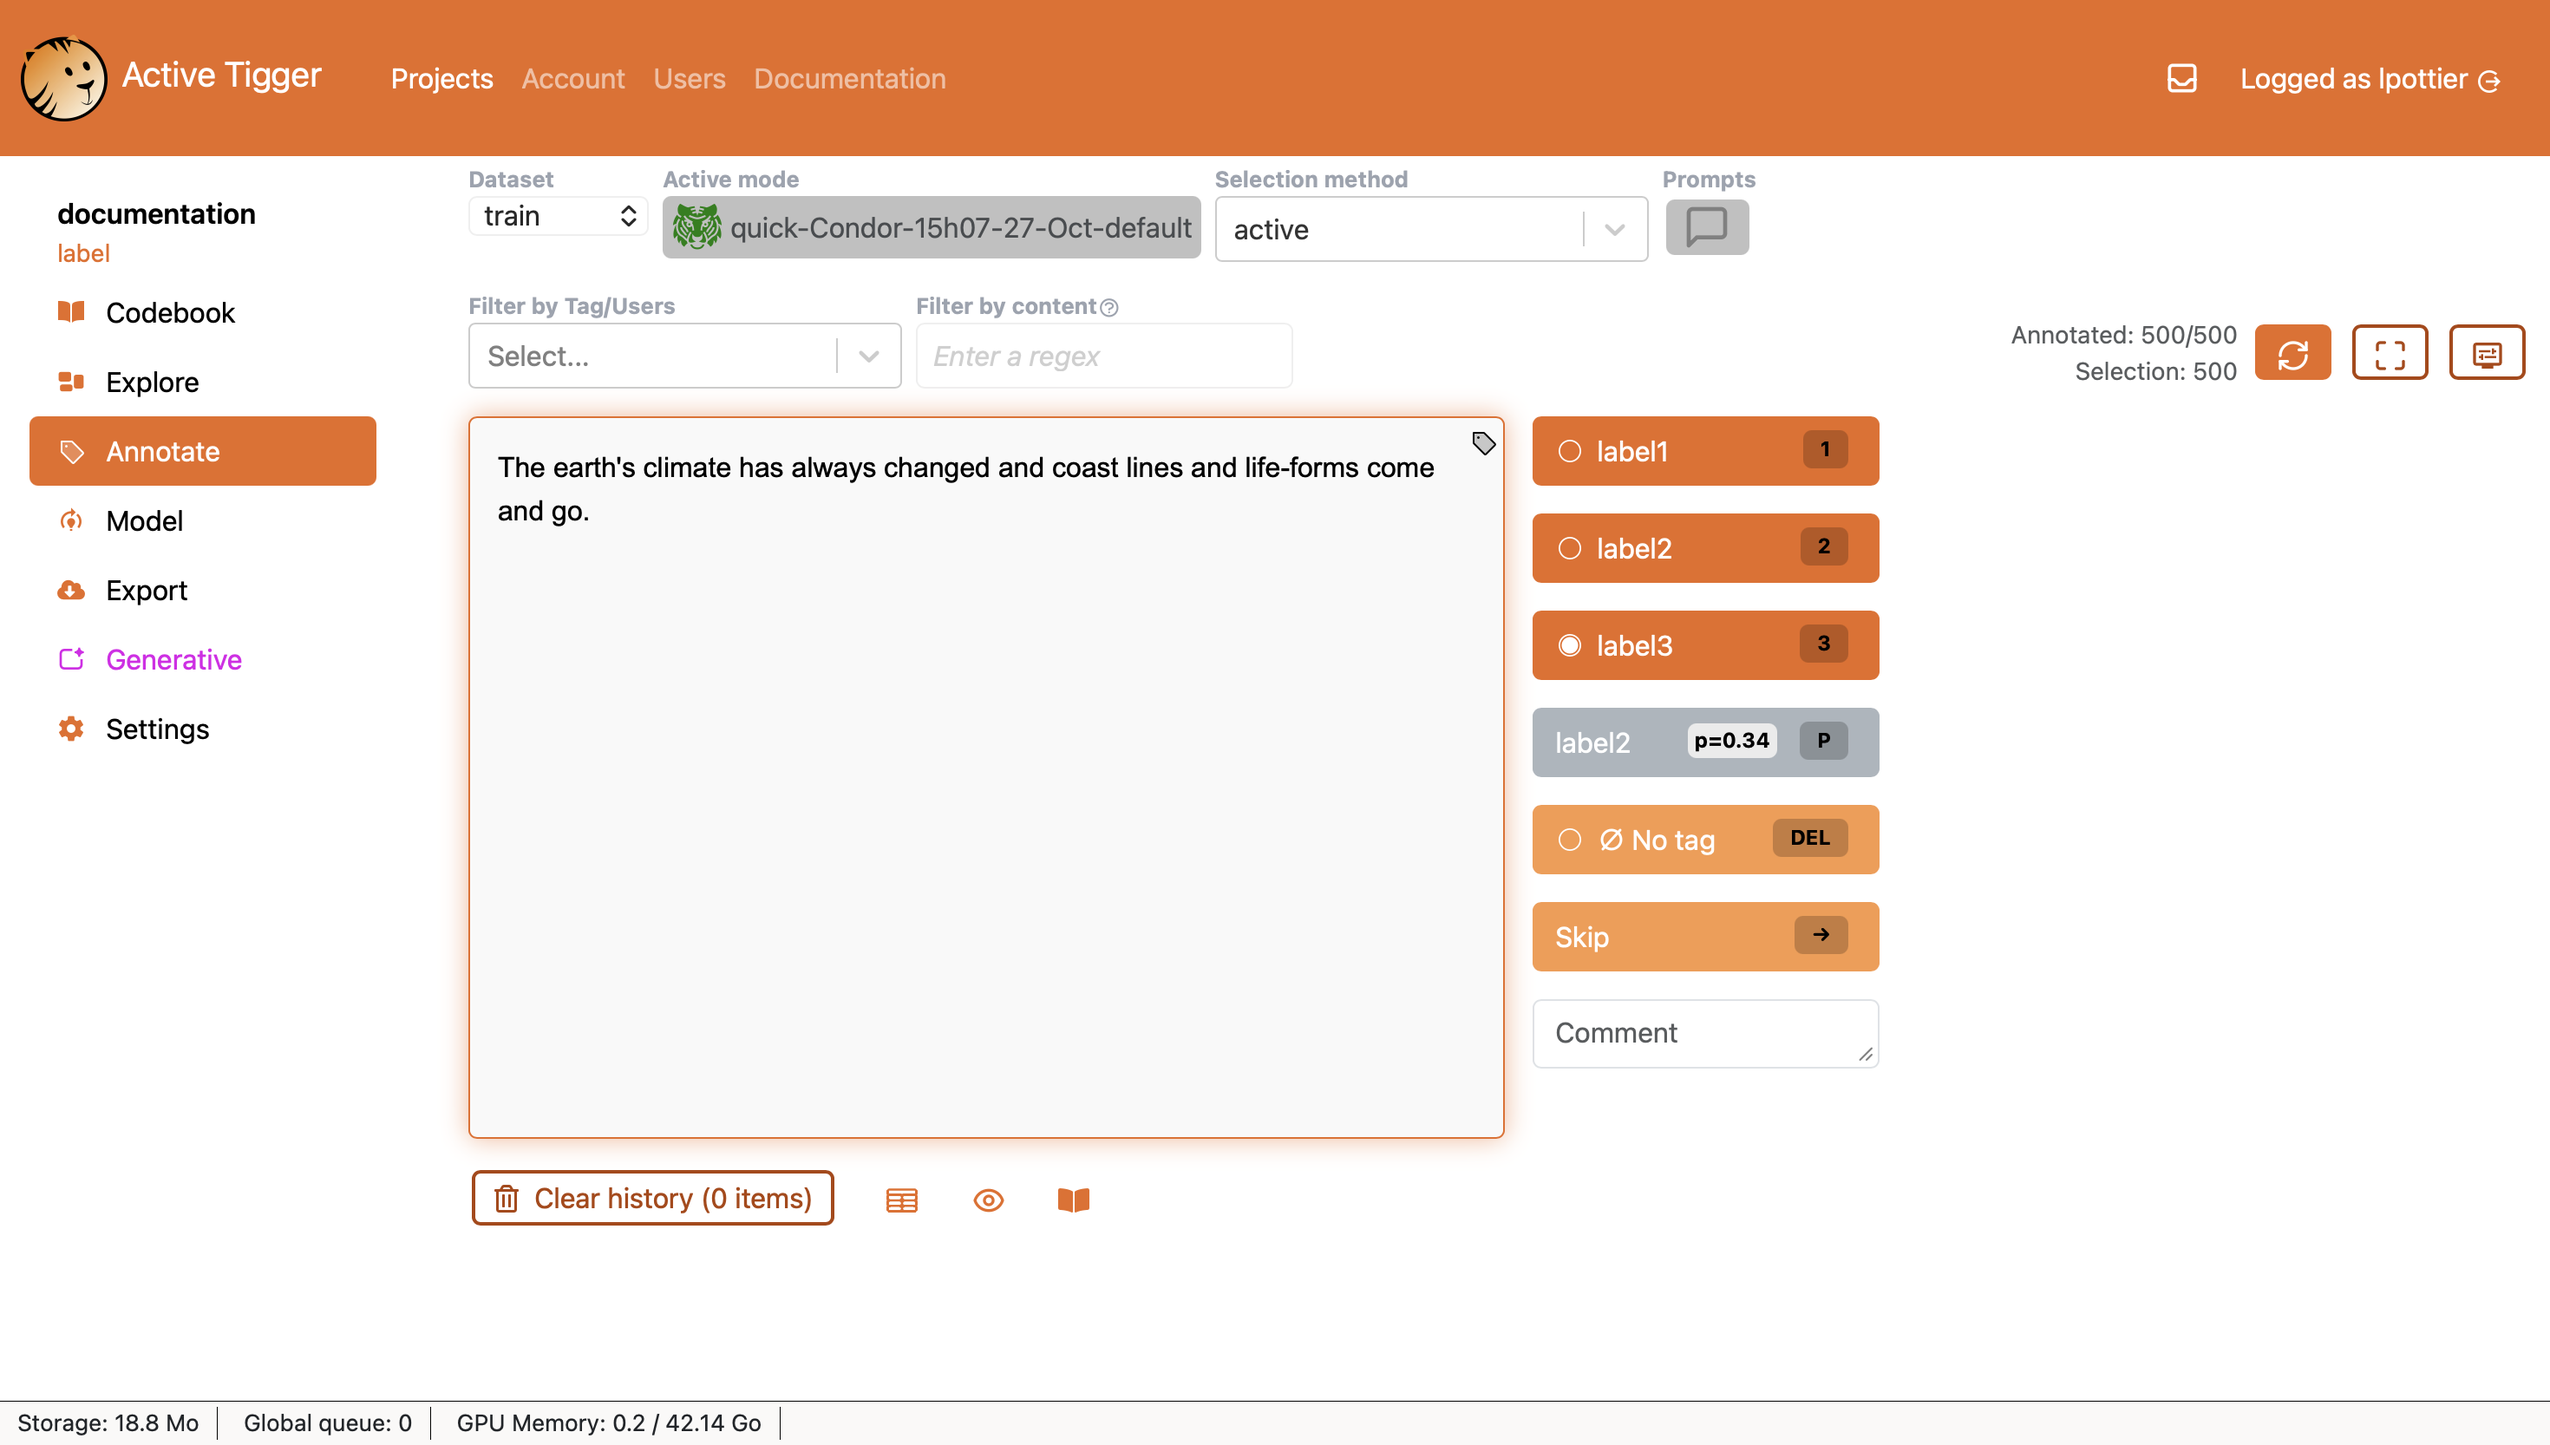
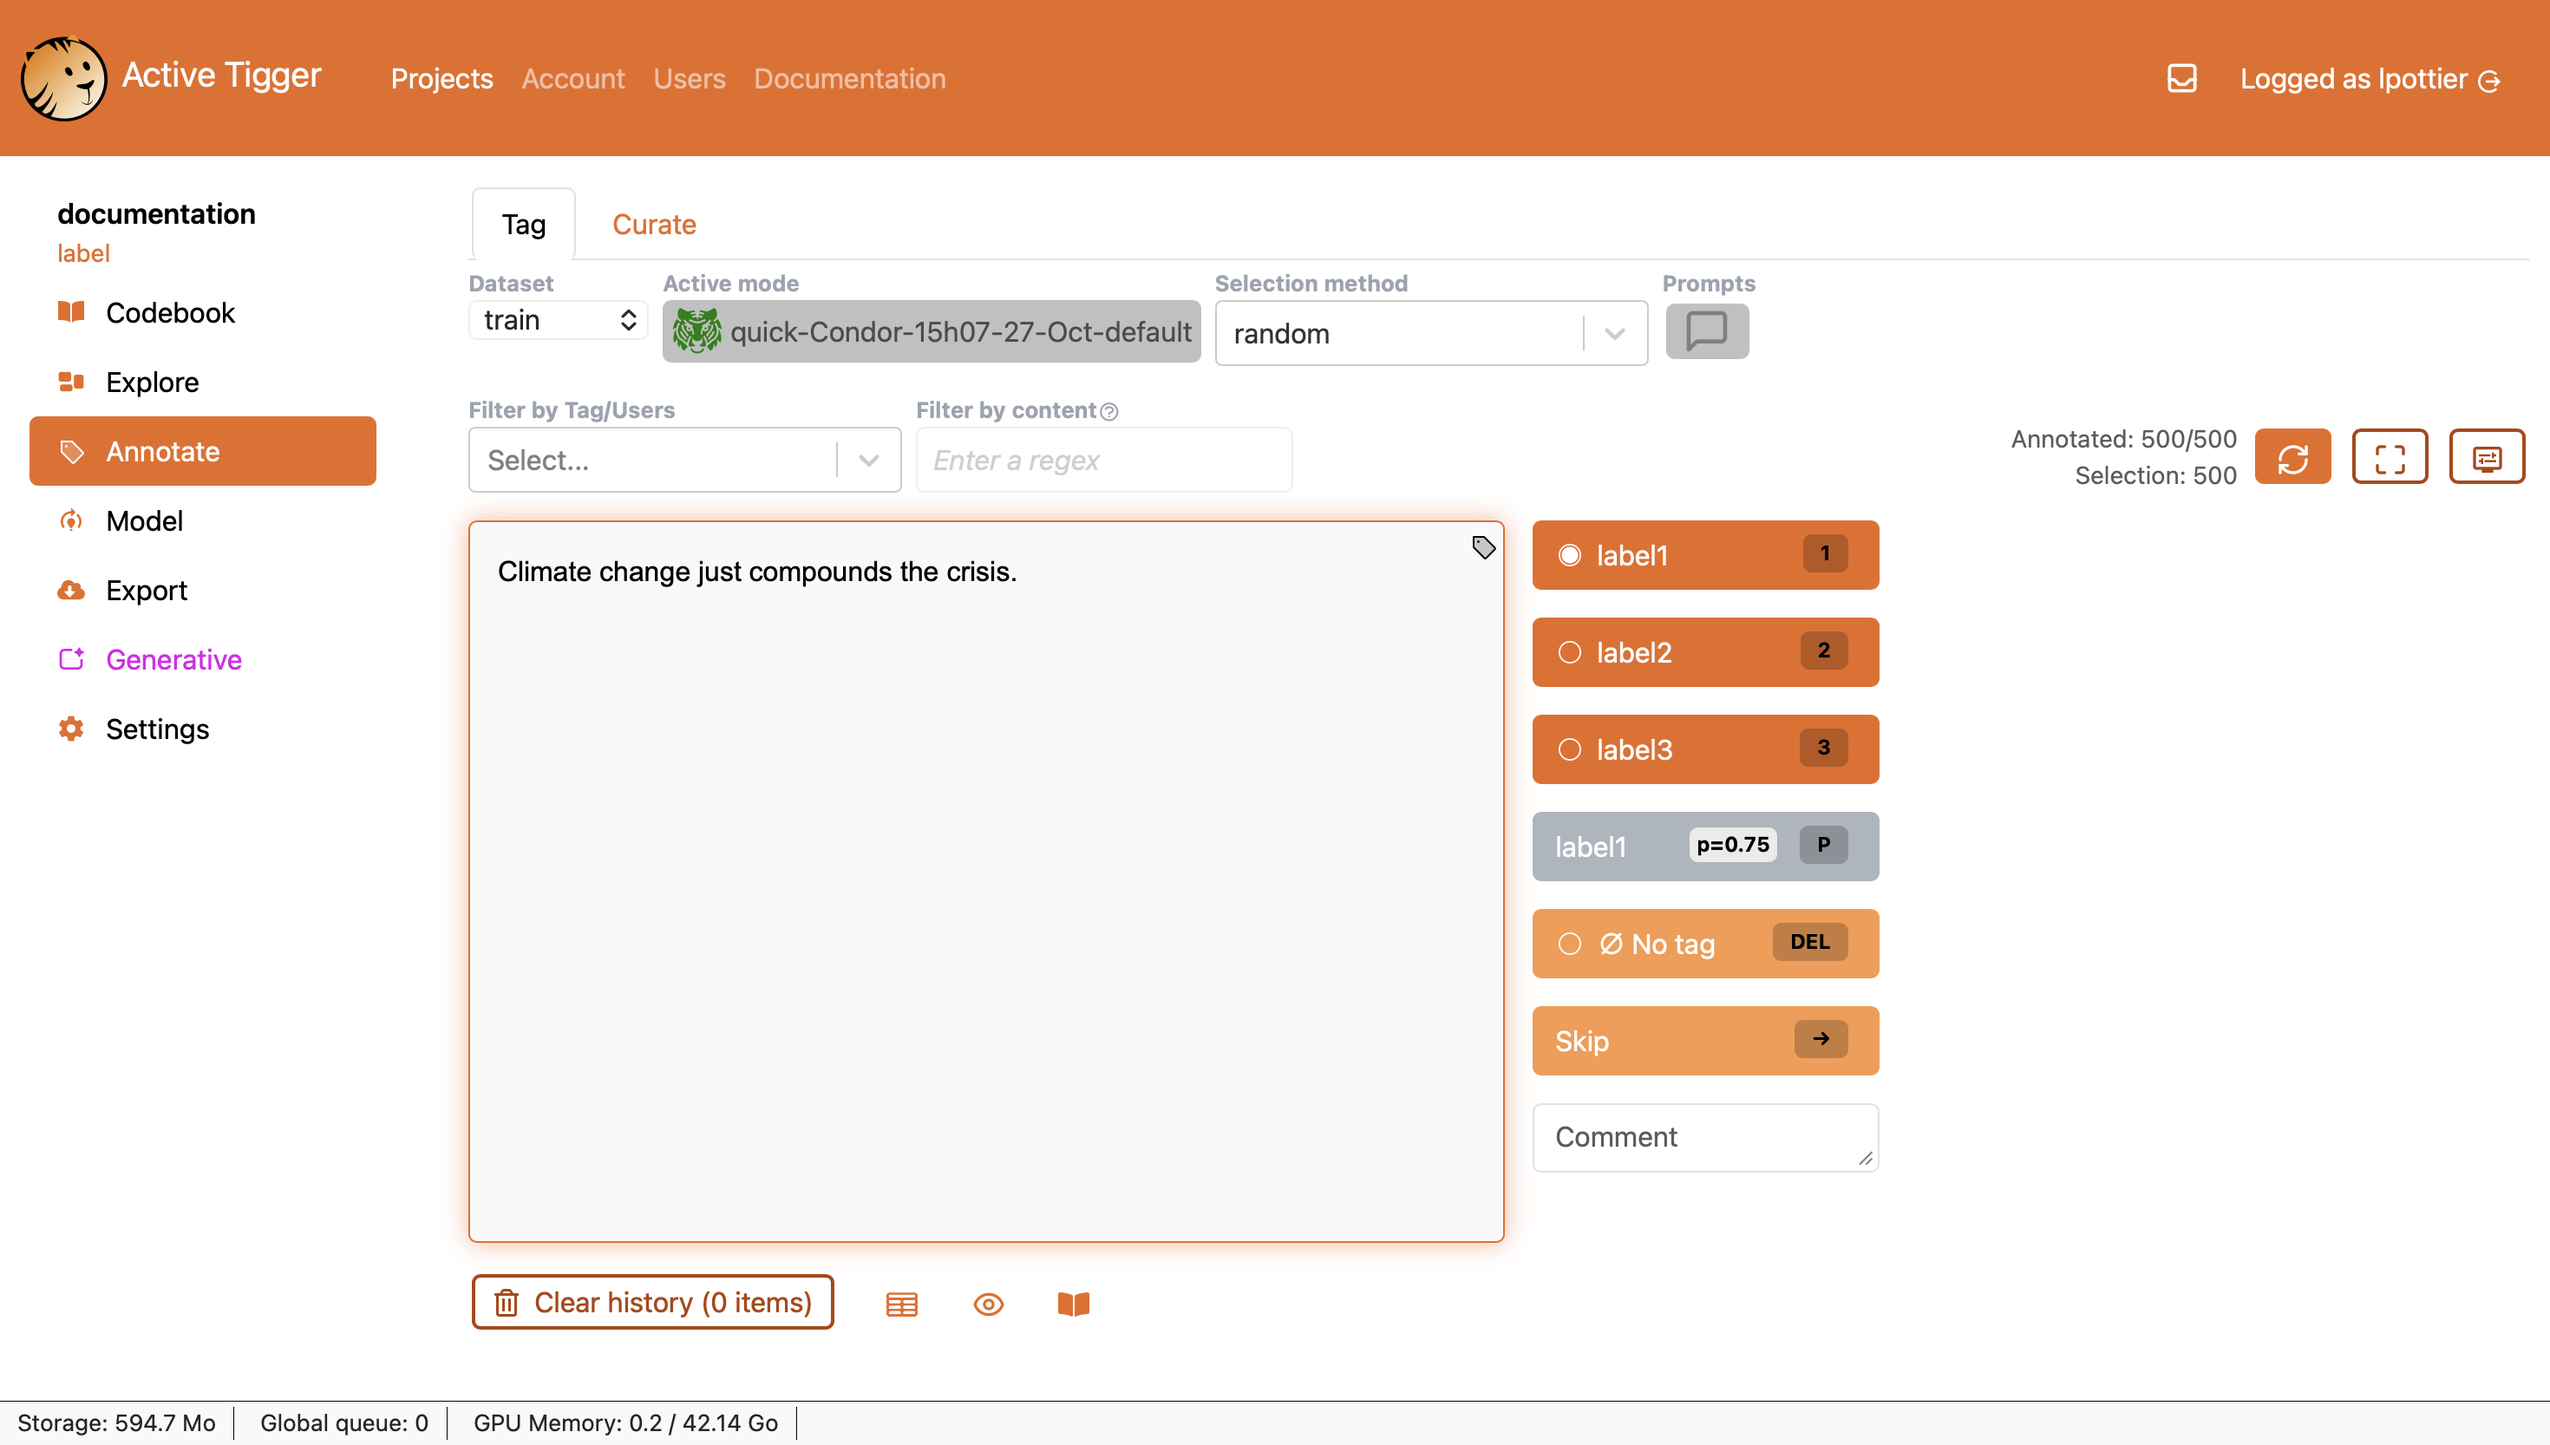
small image and text fixes

diff --git a/docs/functionalities/annotate.md b/docs/functionalities/annotate.md
@@ -2,7 +2,7 @@
 
 The Annotate Page is the main page of the app to annotate your data. 
 
-All annotation modes share the same layout, with some specificities for multi-label and span annotation that you can find [below](../functionalities/annotate.md#annotate-multi-label). 
+All annotation types share the same layout, with some specificities for multi-label and span annotation that you can find [below](../functionalities/annotate.md#annotate-multi-label). 
 
 ![](../img/functionalities/annotate.png)
 
